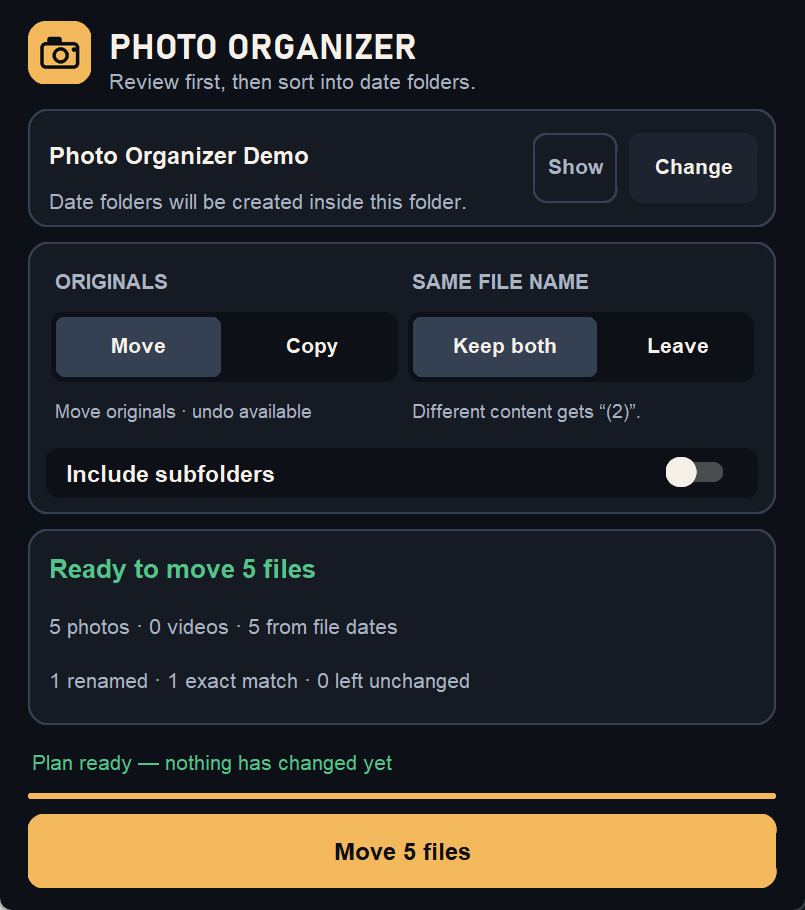
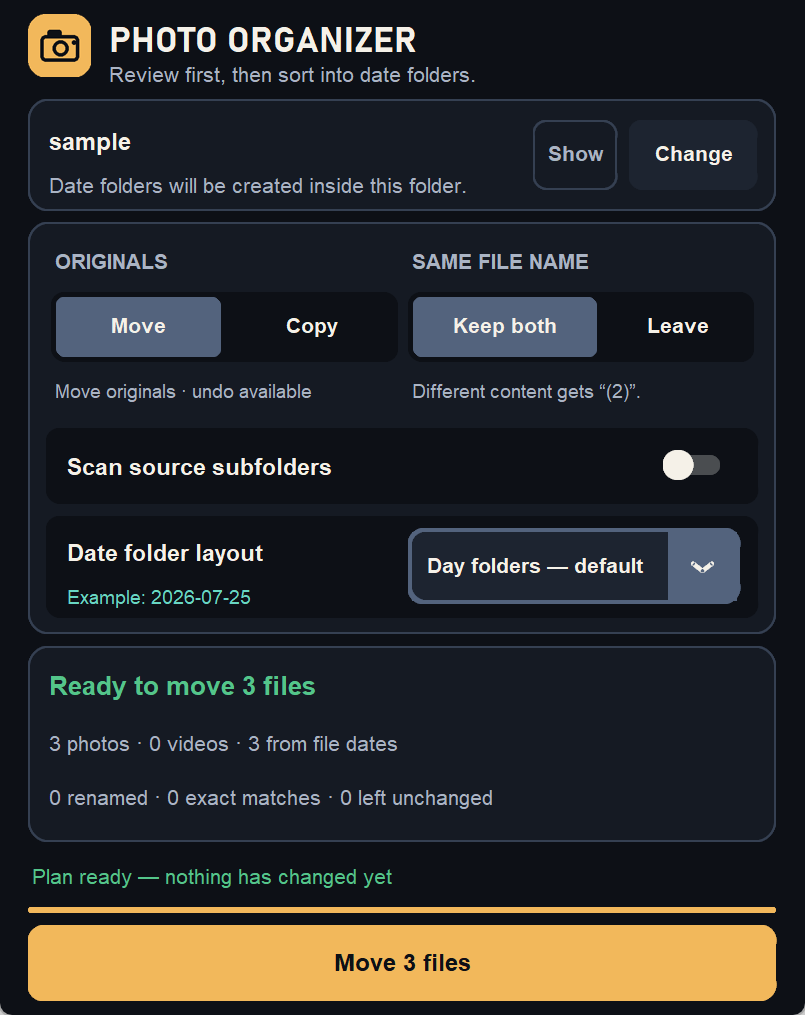
Update Photo Organizer to v2.1.0

diff --git a/index.html b/index.html
@@ -672,11 +672,11 @@
                 <span class="project-link">Open →</span>
             </a>
 
-            <a class="project-card" data-category="photo" href="https://github.com/datal3x/datal3x.github.io/releases/tag/photoorganizer-v2.0.3" target="_blank" style="text-decoration:none;">
-                <img class="project-preview" src="img/img-photoorganizer.png" alt="Photo Organizer 2.0.3 review-first interface" style="object-position:center 38%;" loading="lazy">
+            <a class="project-card" data-category="photo" href="https://github.com/datal3x/datal3x.github.io/releases/tag/photoorganizer-v2.1.0" target="_blank" style="text-decoration:none;">
+                <img class="project-preview" src="img/img-photoorganizer.png" alt="Photo Organizer 2.1.0 four-layout interface" style="object-position:center 48%;" loading="lazy">
                 <div class="project-icon">📷</div>
                 <h3>Photo Organizer</h3>
-                <p>Safely sorts photos and videos into date folders with review, duplicate checks, and Undo.</p>
+                <p>Safely sorts photos and videos with four date-folder layouts, duplicate checks, and verified Undo.</p>
                 <div class="tech-tags">
                     <span class="tech-tag">Windows</span>
                     <span class="tech-tag">Photos</span>
